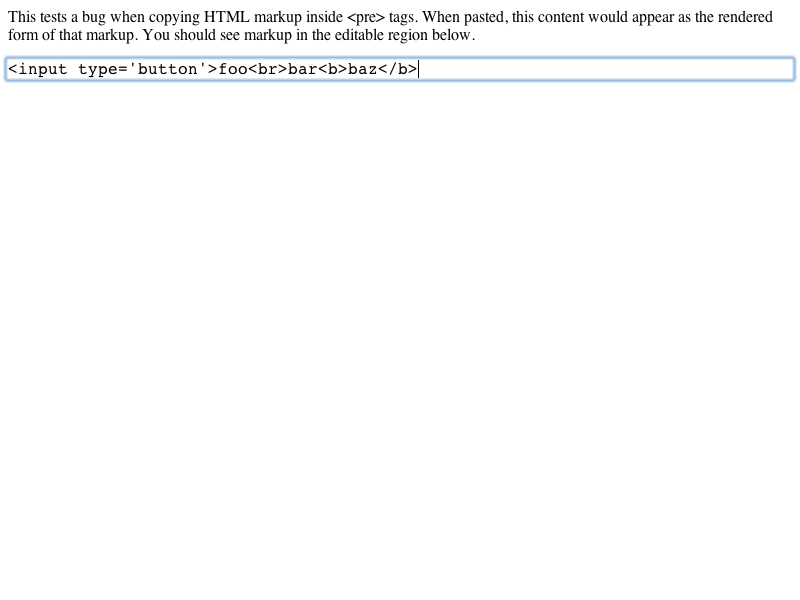
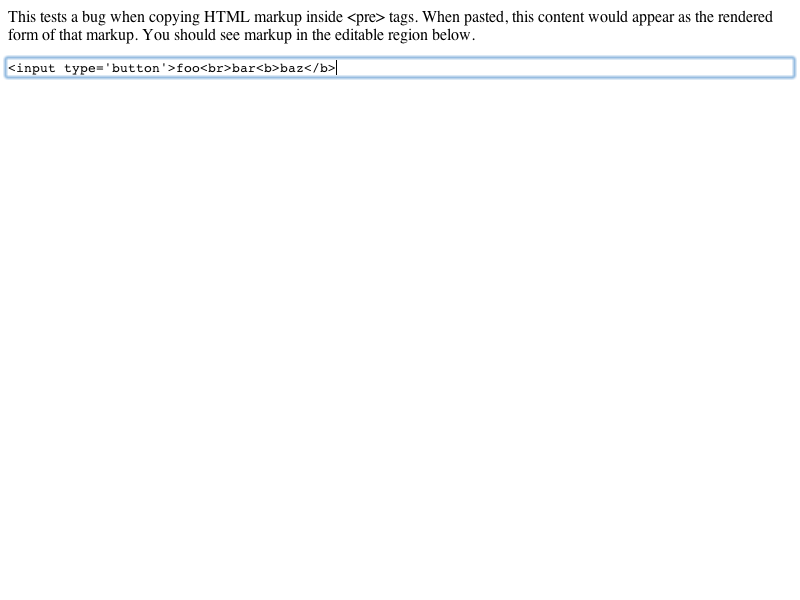
WebCore:
Reviewed by Darin Adler.

        - fix <rdar://problem/5760774> Replying to a Mail message that contains
          fixed width text can change the size of the text

        Covered by existing tests: editing/pasteboard/5027857.html
                                   editing/pasteboard/paste-pre-002.html

        * css/CSSComputedStyleDeclaration.cpp:
        (WebCore::CSSComputedStyleDeclaration::getFontSizeCSSValuePreferringKeyword):
        Added. If the font-size is keyword-based, returns the keyword value
        instead of the pixel size.
        (WebCore::CSSComputedStyleDeclaration::getPropertyCSSValue): If
        font-family is a generic family, return the generic family instead of
        the the internal string -webkit-[serif|sans-serif|cursive|fantasy
        |monospace].
        (WebCore::CSSComputedStyleDeclaration::copyInheritableProperties):
        For the font-size property, prefer a keyword value over a pixel size.
        * css/CSSComputedStyleDeclaration.h:
        * editing/ApplyStyleCommand.cpp:
        (WebCore::StyleChange::currentlyHasStyle): For the font-size property,
        call getFontSizeCSSValuePreferringKeyword().
        * platform/graphics/FontDescription.h:
        (WebCore::FontDescription::keywordSize): Changed the return type to
        unsigned.
        (WebCore::FontDescription::setKeywordSize): Changed the parameter type
        to unsigned.
        (WebCore::FontDescription::m_keywordSize): Changed the type of this
[…]

Changed region(s): [[0.0, 0.09, 1.0, 0.15]]

diff --git a/WebCore/css/CSSComputedStyleDeclaration.cpp b/WebCore/css/CSSComputedStyleDeclaration.cpp
@@ -538,9 +538,60 @@ void CSSComputedStyleDeclaration::setCssText(const String&, ExceptionCode& ec)
     ec = NO_MODIFICATION_ALLOWED_ERR;
 }
 
+static int cssIdentifierForFontSizeKeyword(int keywordSize)
+{
+    ASSERT_ARG(keywordSize, keywordSize);
+    ASSERT_ARG(keywordSize, keywordSize <= 8);
+    return CSSValueXxSmall + keywordSize - 1;
+}
+
+PassRefPtr<CSSValue> CSSComputedStyleDeclaration::getFontSizeCSSValuePreferringKeyword() const
+{
+    Node* node = m_node.get();
+    if (!node)
+        return 0;
+
+    node->document()->updateLayoutIgnorePendingStylesheets();
+
+    RefPtr<RenderStyle> style = node->computedStyle();
+    if (!style)
+        return 0;
+
+    if (int keywordSize = style->fontDescription().keywordSize())
+        return CSSPrimitiveValue::createIdentifier(cssIdentifierForFontSizeKeyword(keywordSize));
+
+    return CSSPrimitiveValue::create(style->fontDescription().computedPixelSize(), CSSPrimitiveValue::CSS_PX);
+}
+
 PassRefPtr<CSSValue> CSSComputedStyleDeclaration::getPropertyCSSValue(int propertyID) const
 {
     return getPropertyCSSValue(propertyID, UpdateLayout);
+}
+
+static int toCSSIdentifier(FontDescription::GenericFamilyType genericFamily)
+{
+    switch (genericFamily) {
+        case FontDescription::SerifFamily:
+            return CSSValueSerif;
+            break;
+        case FontDescription::SansSerifFamily:
+            return CSSValueSansSerif;
+            break;
+        case FontDescription::MonospaceFamily:
+            return CSSValueMonospace;
+            break;
+        case FontDescription::CursiveFamily:
+            return CSSValueCursive;
+            break;
+        case FontDescription::FantasyFamily:
+            return CSSValueFantasy;
+            break;
+        case FontDescription::StandardFamily:
+        case FontDescription::NoFamily:
+        default:
+            return 0;
+            break;
+    }
 }
 
 PassRefPtr<CSSValue> CSSComputedStyleDeclaration::getPropertyCSSValue(int propertyID, EUpdateLayout updateLayout) const
@@ -723,9 +774,13 @@ PassRefPtr<CSSValue> CSSComputedStyleDeclaration::getPropertyCSSValue(int proper
             return CSSPrimitiveValue::create(style->emptyCells());
         case CSSPropertyFloat:
             return CSSPrimitiveValue::create(style->floating());
-        case CSSPropertyFontFamily:
+        case CSSPropertyFontFamily: {
             // FIXME: This only returns the first family.
+            if (int id = toCSSIdentifier(style->fontDescription().genericFamily()))
+                return CSSPrimitiveValue::createIdentifier(id);
+
             return CSSPrimitiveValue::create(style->fontDescription().family().family().string(), CSSPrimitiveValue::CSS_STRING);
+        }
         case CSSPropertyFontSize:
             return CSSPrimitiveValue::create(style->fontDescription().computedPixelSize(), CSSPrimitiveValue::CSS_PX);
         case CSSPropertyWebkitBinding:
@@ -1432,6 +1487,8 @@ PassRefPtr<CSSMutableStyleDeclaration> CSSComputedStyleDeclaration::copyInherita
         if (!m_node->computedStyle()->textStrokeColor().isValid())
             style->removeProperty(CSSPropertyWebkitTextStrokeColor, ec);
         ASSERT(ec == 0);
+        if (int keywordSize = m_node->computedStyle()->fontDescription().keywordSize())
+            style->setProperty(CSSPropertyFontSize, cssIdentifierForFontSizeKeyword(keywordSize));
     }
     return style.release();
 }

diff --git a/WebCore/platform/graphics/FontDescription.h b/WebCore/platform/graphics/FontDescription.h
@@ -81,7 +81,7 @@ public:
     GenericFamilyType genericFamily() const { return static_cast<GenericFamilyType>(m_genericFamily); }
     bool usePrinterFont() const { return m_usePrinterFont; }
     FontRenderingMode renderingMode() const { return static_cast<FontRenderingMode>(m_renderingMode); }
-    int keywordSize() const { return m_keywordSize; }
+    unsigned keywordSize() const { return m_keywordSize; }
 
     FontTraitsMask traitsMask() const;
 
@@ -95,7 +95,7 @@ public:
     void setGenericFamily(GenericFamilyType genericFamily) { m_genericFamily = genericFamily; }
     void setUsePrinterFont(bool p) { m_usePrinterFont = p; }
     void setRenderingMode(FontRenderingMode mode) { m_renderingMode = mode; }
-    void setKeywordSize(int s) { m_keywordSize = s; }
+    void setKeywordSize(unsigned s) { m_keywordSize = s; }
 
 private:
     FontFamily m_familyList; // The list of font families to be used.
@@ -114,7 +114,7 @@ private:
 
     unsigned m_renderingMode : 1;  // Used to switch between CG and GDI text on Windows.
 
-    int m_keywordSize : 4; // We cache whether or not a font is currently represented by a CSS keyword (e.g., medium).  If so,
+    unsigned m_keywordSize : 4; // We cache whether or not a font is currently represented by a CSS keyword (e.g., medium).  If so,
                            // then we can accurately translate across different generic families to adjust for different preference settings
                            // (e.g., 13px monospace vs. 16px everything else).  Sizes are 1-8 (like the HTML size values for <font>).
 };

diff --git a/WebCore/editing/ApplyStyleCommand.cpp b/WebCore/editing/ApplyStyleCommand.cpp
@@ -229,7 +229,11 @@ bool StyleChange::currentlyHasStyle(const Position &pos, const CSSProperty *prop
 {
     ASSERT(pos.isNotNull());
     RefPtr<CSSComputedStyleDeclaration> style = pos.computedStyle();
-    RefPtr<CSSValue> value = style->getPropertyCSSValue(property->id(), DoNotUpdateLayout);
+    RefPtr<CSSValue> value;
+    if (property->id() == CSSPropertyFontSize)
+        value = style->getFontSizeCSSValuePreferringKeyword();
+    else
+        value = style->getPropertyCSSValue(property->id(), DoNotUpdateLayout);
     if (!value)
         return false;
     return equalIgnoringCase(value->cssText(), property->value()->cssText());

diff --git a/WebCore/css/CSSComputedStyleDeclaration.h b/WebCore/css/CSSComputedStyleDeclaration.h
@@ -50,6 +50,7 @@ public:
     virtual PassRefPtr<CSSMutableStyleDeclaration> makeMutable();
 
     PassRefPtr<CSSValue> getPropertyCSSValue(int propertyID, EUpdateLayout) const;
+    PassRefPtr<CSSValue> getFontSizeCSSValuePreferringKeyword() const;
 #if ENABLE(SVG)
     PassRefPtr<CSSValue> getSVGPropertyCSSValue(int propertyID, EUpdateLayout) const;
 #endif
